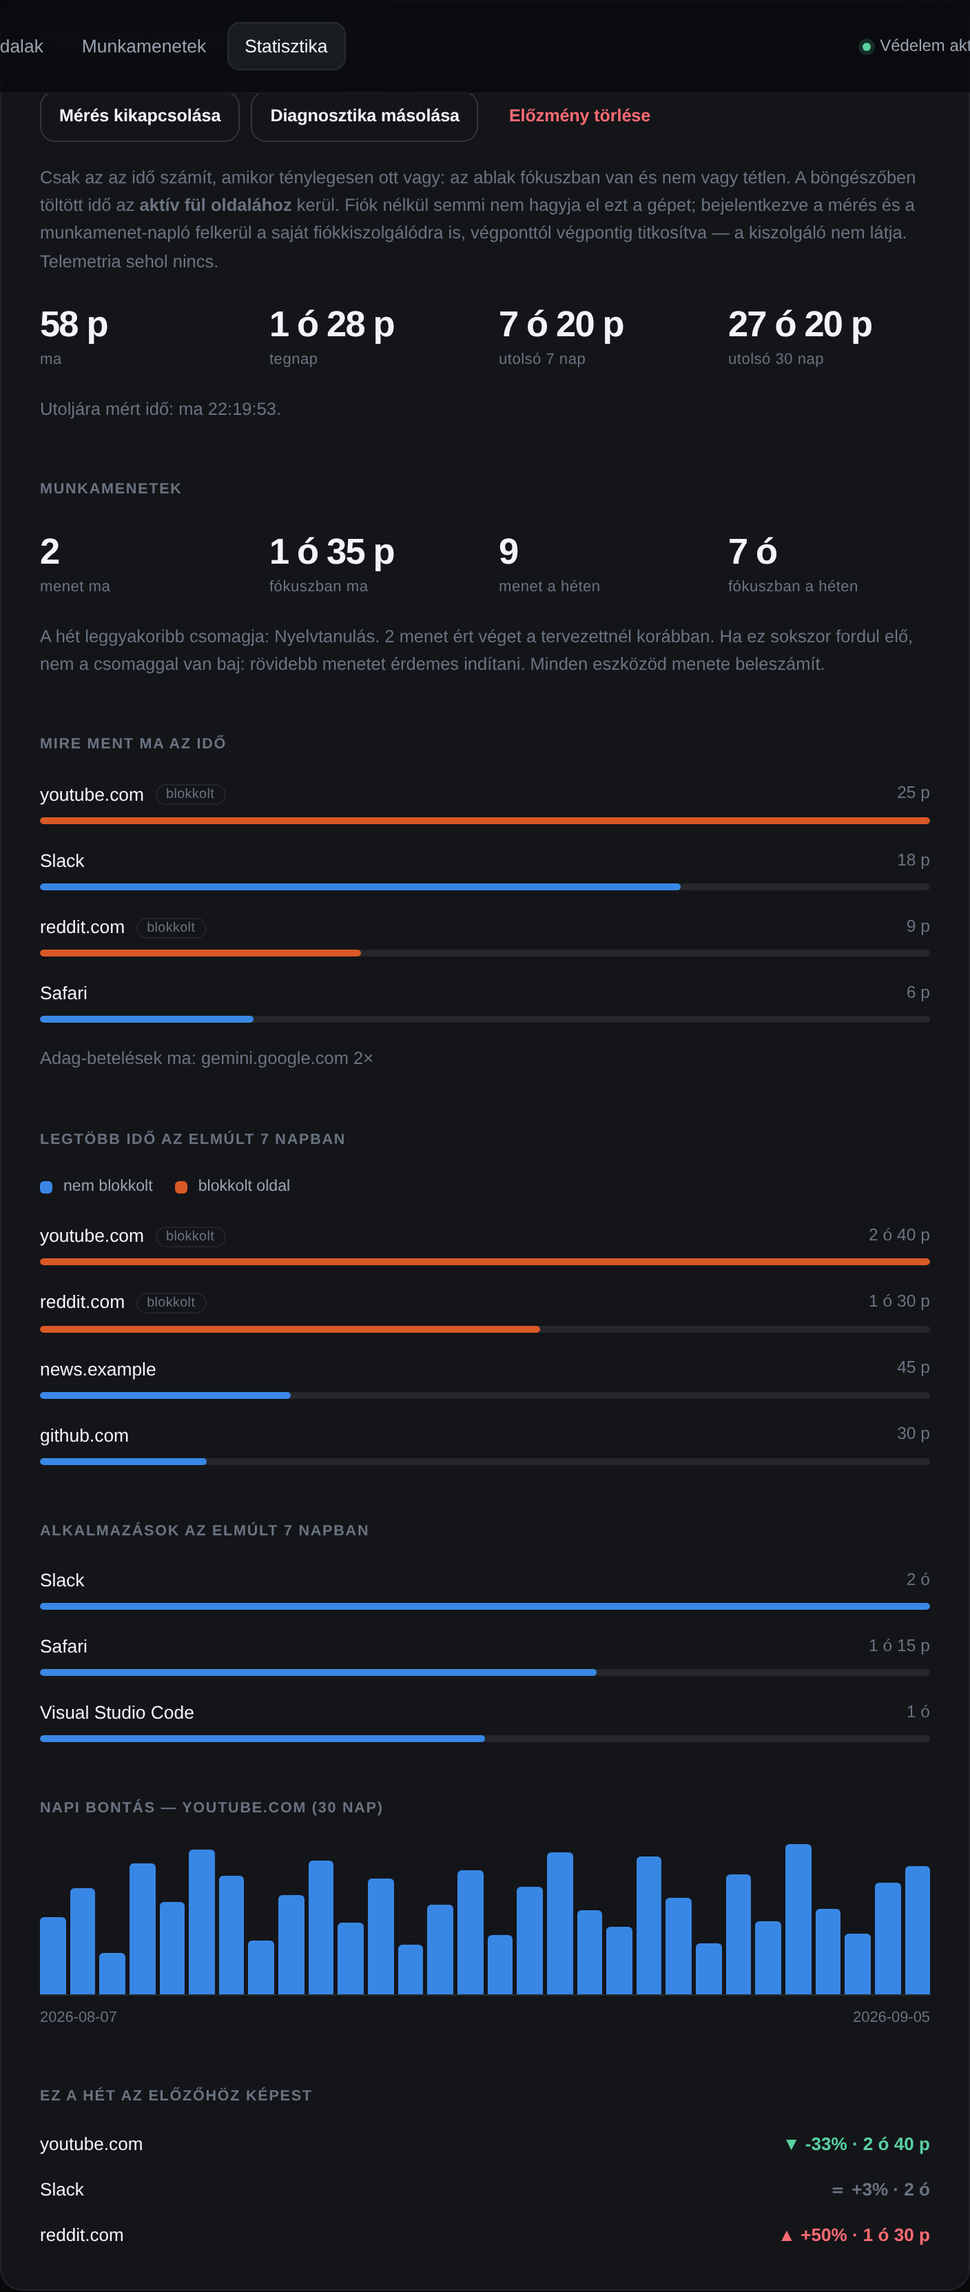
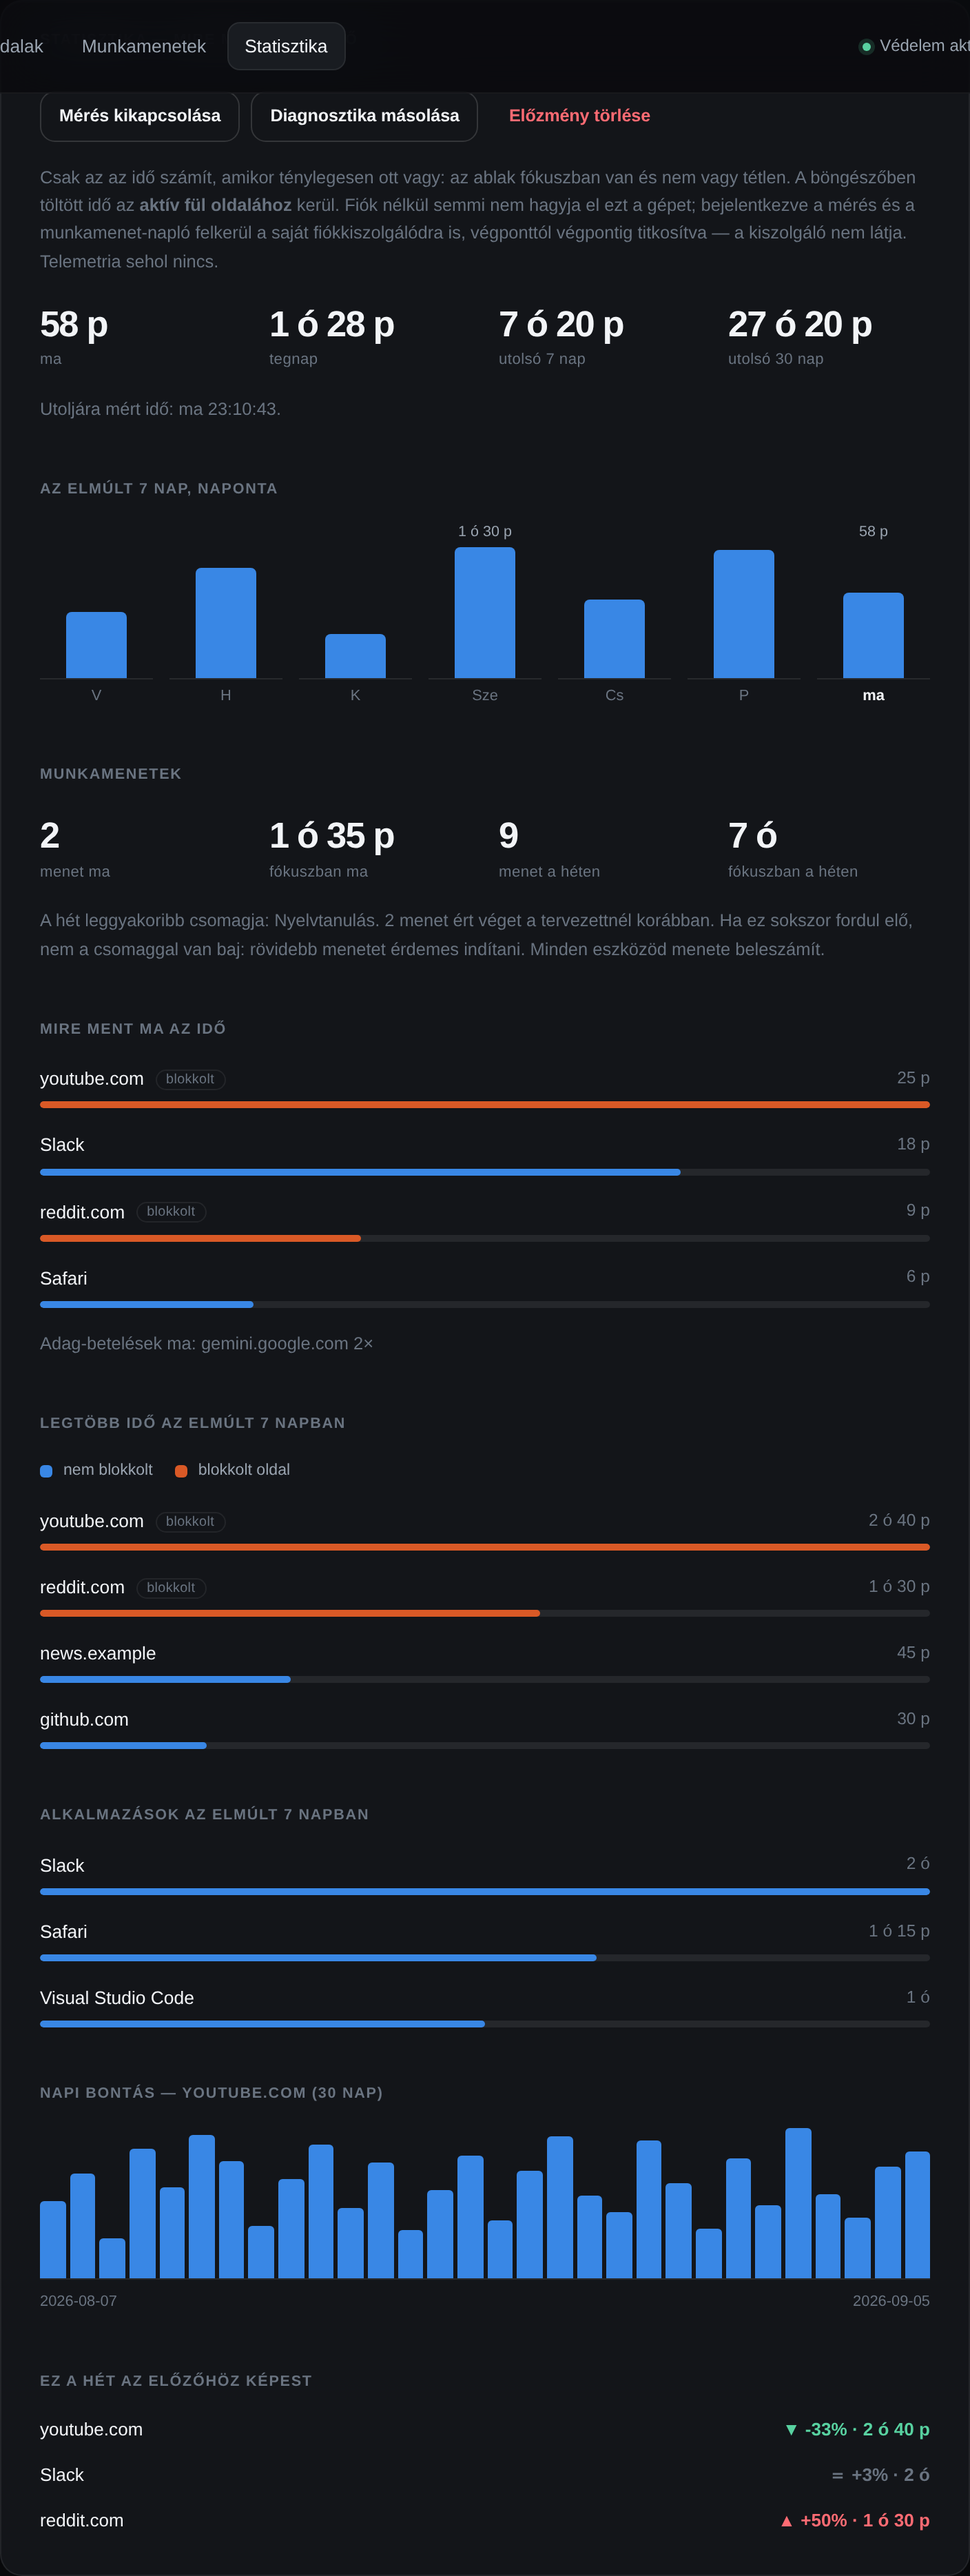
Statisztika: az elmúlt 7 nap naponta, sávokban
A csempe egy számban mondja a hetet; ez a hét alakját mutatja — a hétvégi
kiugrást, a szerdai lyukat — hét oszlopban, a csempével azonos összeggel
(totalSeries: minden célpont együtt, naponta). Egy szín, mert az oszlop
nem kategória; a mai nap a feliratával kiemelve; szám csak a mai és a
legnagyobb oszlopon, a többi mutatásra mondja. Üresen a blokk eltűnik,
régebbi segéd (weekSeries nélkül) mellett is.

Claude-Session: https://claude.ai/code/session_01GmEbvUGrVoFTPU1itCKXSa

diff --git a/desktop/src/renderer/renderer.ts b/desktop/src/renderer/renderer.ts
@@ -10,7 +10,7 @@ import type {
 import {
   PRESET_BANDS, type Band, type Schedule, type ScheduleMode, type Weekday,
 } from '../shared/schedule.js';
-import { formatDuration } from '../shared/usage.js';
+import { dayKey, formatDuration } from '../shared/usage.js';
 import {
   displayName, displayNameNow, isAliased, MAX_ALIAS_LENGTH, REVEAL_MS,
 } from '../shared/alias.js';
@@ -3226,6 +3226,41 @@ function renderDaily(series: { day: string; seconds: number }[], title: string):
   $('axisEnd').textContent = series[series.length - 1]?.day ?? '';
 }
 
+/**
+ * Az elmúlt hét nap, naponta. A csempe egy számban mondja ugyanezt; itt a
+ * hét ALAKJA látszik. Egy sávszín: az oszlop nem kategória, a mai nap a
+ * feliratával van kiemelve. Szám csak a mai és a legnagyobb oszlopon — a
+ * többi mutatásra mondja —, hogy a diagram olvasható maradjon, ne táblázat.
+ * Üresen (nincs mért perc a héten, vagy régi segéd, ami nem küld sort) a
+ * blokk eltűnik.
+ */
+function renderWeek(series: { day: string; seconds: number }[] | undefined): void {
+  const host = $('weekChart');
+  host.textContent = '';
+  const rows = series ?? [];
+  const max = Math.max(0, ...rows.map((d) => d.seconds));
+  $('weekBlock').classList.toggle('hidden', rows.length === 0 || max === 0);
+  if (rows.length === 0 || max === 0) return;
+  const today = dayKey(Date.now());
+  const peak = rows.findIndex((d) => d.seconds === max);
+  rows.forEach((d, i) => {
+    const col = h('div', 'week-col');
+    const isToday = d.day === today;
+    const labelled = isToday || i === peak;
+    col.appendChild(h('div', 'week-val', labelled && d.seconds > 0 ? formatDuration(d.seconds) : ''));
+    const plot = h('div', 'week-plot');
+    const bar = h('div', `week-bar${d.seconds === 0 ? ' empty' : ''}`);
+    bar.style.height = d.seconds === 0 ? '2px' : `${Math.max(3, (d.seconds / max) * 100)}%`;
+    const date = new Date(Number(d.day.slice(0, 4)), Number(d.day.slice(5, 7)) - 1, Number(d.day.slice(8, 10)));
+    const dayName = DAY_NAMES[date.getDay() as Weekday];
+    attachTip(bar, () => `${dayName}, ${d.day} — ${formatDuration(d.seconds)}`);
+    plot.appendChild(bar);
+    col.appendChild(plot);
+    col.appendChild(h('div', `week-day${isToday ? ' today' : ''}`, isToday ? 'ma' : DAY_SHORT[date.getDay() as Weekday]));
+    host.appendChild(col);
+  });
+}
+
 /** Shared hover tooltip: hit target is the whole mark, tip follows the cursor. */
 function attachTip(el: HTMLElement, text: () => string): void {
   const tip = $('chartTip');
@@ -3399,6 +3434,7 @@ function renderStats(): void {
   );
 
   renderLastSample(enabled);
+  renderWeek(statsData.weekSeries);
   renderFocusStats();
 
   // A MAI lista vegyes: oldalak és appok együtt, idő szerint. A kérdés itt az,

diff --git a/desktop/test/usage.test.ts b/desktop/test/usage.test.ts
@@ -2,7 +2,7 @@ import { test } from 'node:test';
 import * as assert from 'node:assert/strict';
 import {
   emptyUsage, recordSample, pruneOld, dayKey, dayKeysBack, totalsForDays,
-  rank, sumOf, series, weekOverWeek, summarize, formatDuration,
+  rank, sumOf, series, totalSeries, weekOverWeek, summarize, formatDuration,
   siteKey, appKey, kindOf, idOf, labelOf,
   RETENTION_DAYS, MAX_RECORD_SECONDS, MAX_TARGETS_PER_DAY, MAX_LABEL_LENGTH,
   OTHER_SITE_KEY, decideSample, domainFromBrowserUrl, type UsageState,
@@ -152,6 +152,22 @@ test('series is zero-filled and ordered oldest first', () => {
   assert.equal(s[2].day, dayKey(NOW), 'last entry is today');
   // a target with no data at all yields zeros, not an empty array
   assert.deepEqual(series(st, siteKey('none.com'), NOW, 3).map((x) => x.seconds), [0, 0, 0]);
+});
+
+test('totalSeries: napi összesen minden célponttal, nullákkal, a csempével egyező összeggel', () => {
+  const st = emptyUsage();
+  recordSample(st, siteKey('a.com'), 30, daysAgo(NOW, 6));
+  recordSample(st, appKey('com.slack'), 45, daysAgo(NOW, 6));
+  recordSample(st, siteKey('b.com'), 10, daysAgo(NOW, 2));
+  recordSample(st, siteKey('a.com'), 20, NOW);
+  const s = totalSeries(st, NOW, 7);
+  assert.deepEqual(s.map((x) => x.seconds), [75, 0, 0, 0, 10, 0, 20]);
+  assert.equal(s[6].day, dayKey(NOW), 'az utolsó a ma');
+  assert.equal(s.reduce((a, x) => a + x.seconds, 0), summarize(st, NOW).last7Seconds,
+    'ugyanaz az összeg, mint a csempén');
+  // A nyolc napja mért idő nem a hété.
+  recordSample(st, siteKey('a.com'), 99, daysAgo(NOW, 7));
+  assert.equal(totalSeries(st, NOW, 7).reduce((a, x) => a + x.seconds, 0), 105);
 });
 
 test('weekOverWeek compares the last 7 days against the 7 before', () => {

diff --git a/desktop/src/renderer/styles.css b/desktop/src/renderer/styles.css
@@ -744,6 +744,30 @@ body {
   color: var(--text-3); font-size: 0.73rem; margin-top: var(--s2);
 }
 
+/* A hét napjai: hét oszlop, egy sávszín (az oszlop nem kategória), a mai nap
+   a feliratával kiemelve, nem színnel. */
+.week-chart {
+  display: grid; grid-template-columns: repeat(7, minmax(0, 1fr)); gap: var(--s3);
+}
+.week-col { display: flex; flex-direction: column; align-items: center; gap: 4px; min-width: 0; }
+.week-val {
+  font-size: 0.72rem; color: var(--text-2); white-space: nowrap;
+  height: 1.1em; line-height: 1.1em;
+}
+.week-plot {
+  height: 96px; width: 100%; display: flex; align-items: flex-end; justify-content: center;
+  border-bottom: 1px solid var(--grid);
+}
+.week-bar {
+  width: 72%; max-width: 44px; min-height: 2px;
+  background: var(--series-1); border-radius: 4px 4px 0 0;
+  transition: opacity var(--dur) var(--ease);
+}
+.week-bar:hover { opacity: .72; }
+.week-bar.empty { background: rgba(255,255,255,.07); }
+.week-day { font-size: 0.73rem; color: var(--text-3); }
+.week-day.today { color: var(--text-1); font-weight: 600; }
+
 .wow-list { display: flex; flex-direction: column; gap: var(--s3); }
 .wow-row {
   display: flex; align-items: center; justify-content: space-between;
@@ -881,6 +905,7 @@ body {
   .modal { box-shadow: var(--shadow-3); }
   .site-row:hover { background: rgba(16, 20, 26, .022); }
   .day-bar.empty { background: rgba(16,20,26,.09); }
+  .week-bar.empty { background: rgba(16,20,26,.09); }
 
   /* A párbeszéd mögötti fátyol világos alapon nem lehet majdnem fekete. */
   .overlay { background: rgba(20, 24, 30, .3); }

diff --git a/desktop/src/helper/server.ts b/desktop/src/helper/server.ts
@@ -16,7 +16,7 @@ import {
   blockReasonNow, isLimitExhausted, normalizeLimit, sharedTodaySeconds, usedTodayEverywhere,
 } from '../shared/limits';
 import {
-  recordSample, summarize, series, labelOf, emptyUsage, combineUsage, siteKey, dayKey,
+  recordSample, summarize, series, totalSeries, labelOf, emptyUsage, combineUsage, siteKey, dayKey,
   MAX_KEY_LENGTH, MAX_LABEL_LENGTH, MAX_BATCH_SAMPLES,
 } from '../shared/usage';
 import type { UsageSummary } from '../shared/usage';
@@ -514,6 +514,7 @@ async function handle(req: HelperRequest, deps: ServerDeps): Promise<unknown> {
         focusKey,
         focusLabel: focusKey ? labelOf(state.usage, focusKey) : '',
         focusSeries: focusKey ? series(state.usage, focusKey, now, 30) : [],
+        weekSeries: totalSeries(state.usage, now, 7),
         // A nap kezdete a HELYI naptár szerint: éjfélkor vált, nem huszonnégy
         // órával ezelőtt. Egy „ma” felirat alatt tegnap esti menetek állnának.
         focusToday: summarizeFocus(state.focusLog, startOfDay(now), now),

diff --git a/desktop/src/renderer/index.html b/desktop/src/renderer/index.html
@@ -293,6 +293,17 @@
         <p id="lastSample" class="hint"></p>
 
         <!--
+          A hét napjai. A csempe egy számban mondja az elmúlt hét napot; itt
+          a hét ALAKJA látszik — a hétvégi kiugrás, a szerdai lyuk. Szám csak
+          a mai és a legnagyobb oszlopon, a többi mutatásra mondja. Üresen a
+          blokk eltűnik.
+        -->
+        <div class="chart-block hidden" id="weekBlock">
+          <h3 class="chart-title">Az elmúlt 7 nap, naponta</h3>
+          <div class="week-chart" id="weekChart"></div>
+        </div>
+
+        <!--
           A munkamenetek. Az app eddig azt mérte, MIRE megy el az idő; ez a
           másik oldal: hányszor ültél le dolgozni, és hányat vittél végig.
           Csak akkor jelenik meg, ha van mit mutatni — egy üres blokk, ami

diff --git a/desktop/src/shared/usage.ts b/desktop/src/shared/usage.ts
@@ -233,6 +233,19 @@ export function series(
   return days.map((day) => ({ day, seconds: byDay.get(day)?.[key] ?? 0 }));
 }
 
+/**
+ * Napi ÖSSZESEN — minden célpont együtt — az utolsó `count` napra, a
+ * legrégebbitől. Ugyanaz a szám, amit a csempe egyben mond („utolsó 7 nap”),
+ * csak napokra bontva: a hét alakja innen látszik.
+ */
+export function totalSeries(
+  state: UsageState, now: number, count: number,
+): { day: string; seconds: number }[] {
+  const days = dayKeysBack(now, count);
+  const byDay = new Map(state.days.map((d) => [d.day, d.seconds]));
+  return days.map((day) => ({ day, seconds: sumOf(byDay.get(day) ?? {}) }));
+}
+
 export interface WeekDelta {
   key: string;
   label: string;

diff --git a/desktop/scripts/ui-shots.js b/desktop/scripts/ui-shots.js
@@ -158,6 +158,11 @@ function fakeBridgeSource() {
       },
       focusSeries: series,
       focusLabel: 'youtube.com',
+      // A hét napjai: a mai, a tegnapi és a heti összeg egyezik a csempékkel
+      // (58 p, 1 ó 28 p, 7 ó 20 p).
+      weekSeries: [6, 5, 4, 3, 2, 1, 0].map((back, i) => ({
+        day: day(back), seconds: [2700, 4500, 1800, 5400, 3240, 5280, 3480][i],
+      })),
       // A MUNKAMENET-STATISZTIKA. Külön a méréstől, mert más a forrása: nem
       // abból jön, mire megy el az idő, hanem a menetek naplójából.
       focusToday: { sessions: 2, totalMs: 95 * 60_000, stoppedEarly: 0, topPack: 'Nyelvtanulás' },

diff --git a/desktop/src/shared/protocol.ts b/desktop/src/shared/protocol.ts
@@ -260,6 +260,8 @@ export interface UsageStatsData {
   focusKey: string | null;
   focusLabel: string;
   focusSeries: { day: string; seconds: number }[];
+  /** az elmúlt 7 nap napi ÖSSZESENJE (minden célpont), a legrégebbitől */
+  weekSeries?: { day: string; seconds: number }[];
   /**
    * A munkamenetek összegzése — ma és a héten.
    *

diff --git a/docs/feature-usage-stats.md b/docs/feature-usage-stats.md
@@ -298,6 +298,23 @@ A mag mindhárom nyelven ugyanazt számolja (`topToday`); iPhone-on — ahol az
 app maga nem mér — a fiókkártya összesített blokkja mutatja, minden eszköz
 méréséből együtt.
 
+## A hét napjai
+
+A csempe egy számban mondja az elmúlt hét napot; a „hét naponta” blokk a hét
+ALAKJÁT mutatja — a hétvégi kiugrást, a szerdai lyukat —, hét oszlopban, a
+csempével azonos összeggel (`totalSeries`: minden célpont együtt, naponta).
+Néhány szabály, ami nem esztétika:
+
+- **egy szín.** Az oszlop nem kategória, tehát nem kap külön színt; a mai nap
+  a feliratával („ma”, félkövér) van kiemelve, nem színnel;
+- **szám csak a mai és a legnagyobb oszlopon.** Hét szám hét oszlop fölött
+  már táblázat, nem diagram; a többi nap mutatásra mondja a napot, a dátumot
+  és az időt;
+- **üresen eltűnik** — egy hét mért perc nélkül, vagy egy régebbi segéd, ami
+  nem küld ilyen sort, nem üres diagramot ad, hanem semmit.
+
+![A statisztika lap a hét napjaival](images/desktop-stats.png)
+
 ## Munkamenetek a statisztikán
 
 Az app azt méri, **mire** megy el az idő. A munkamenet a másik oldal: hányszor
